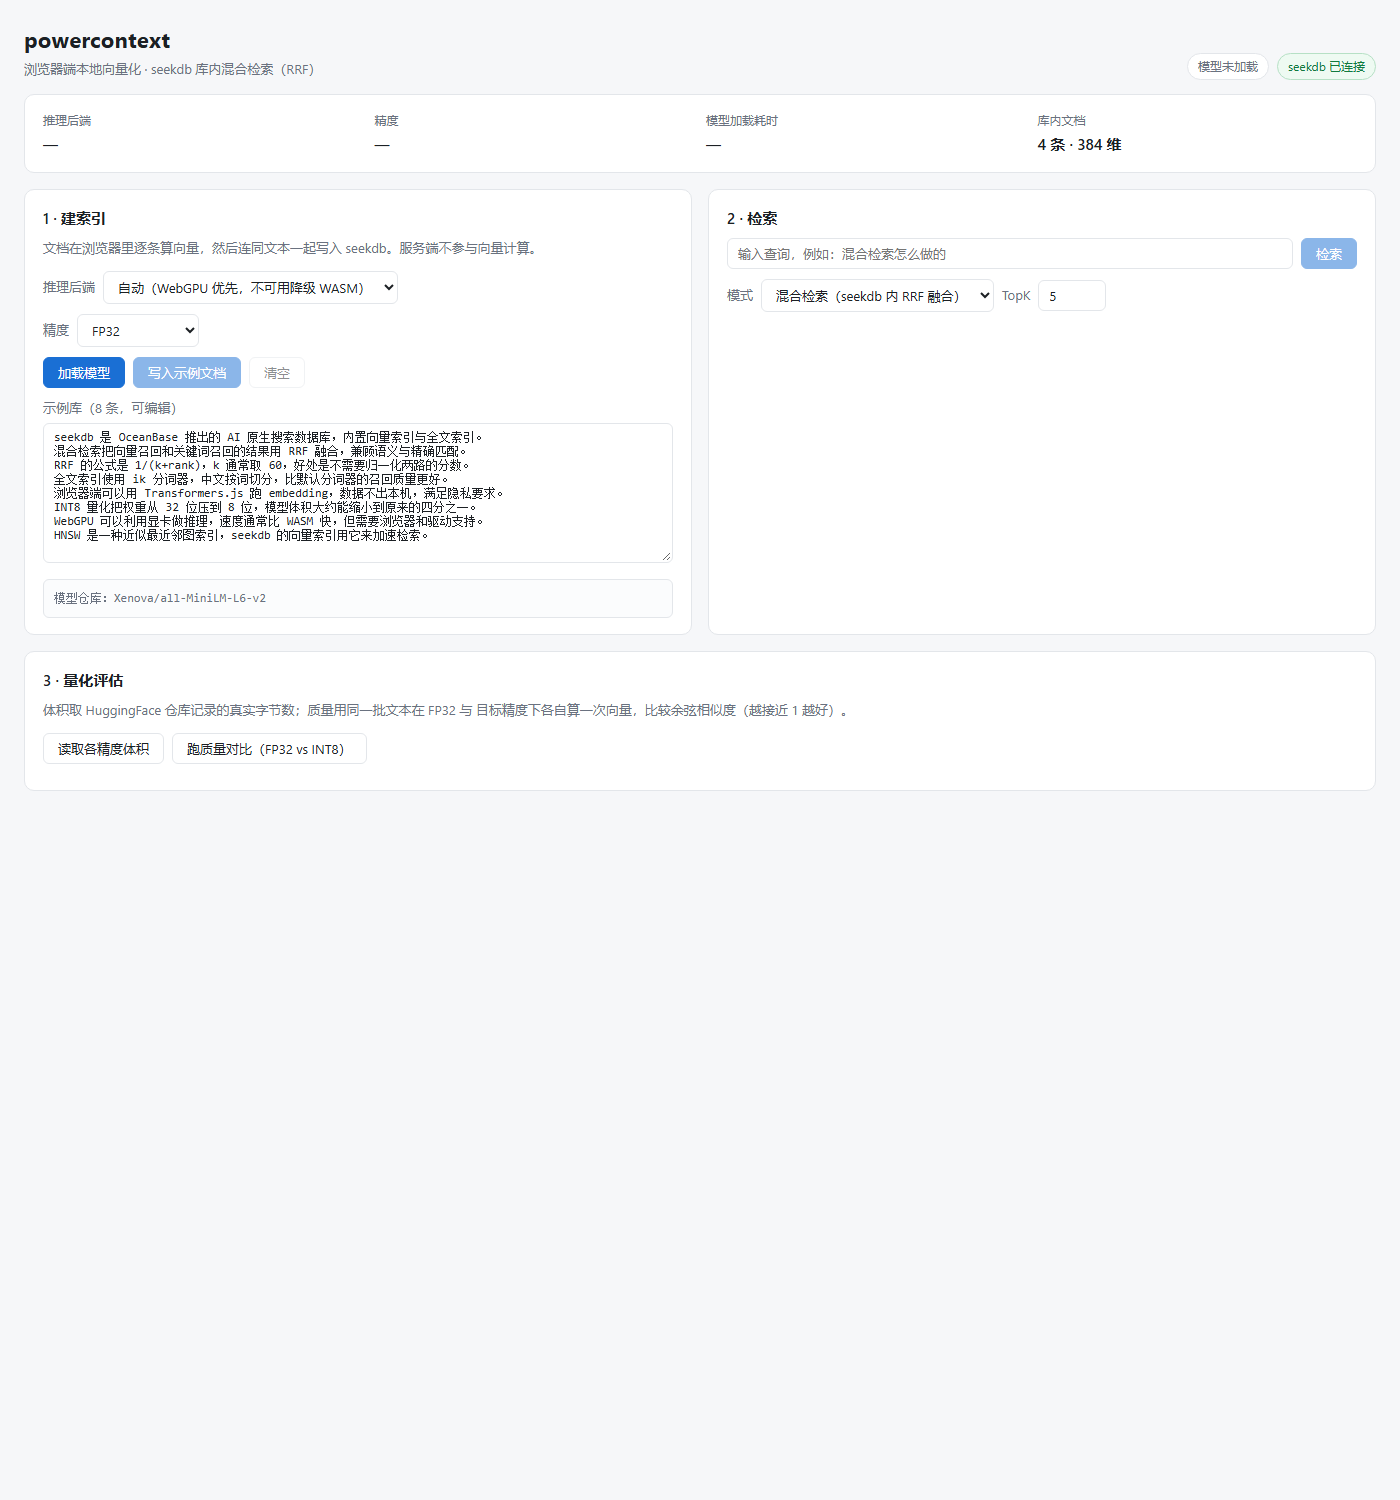
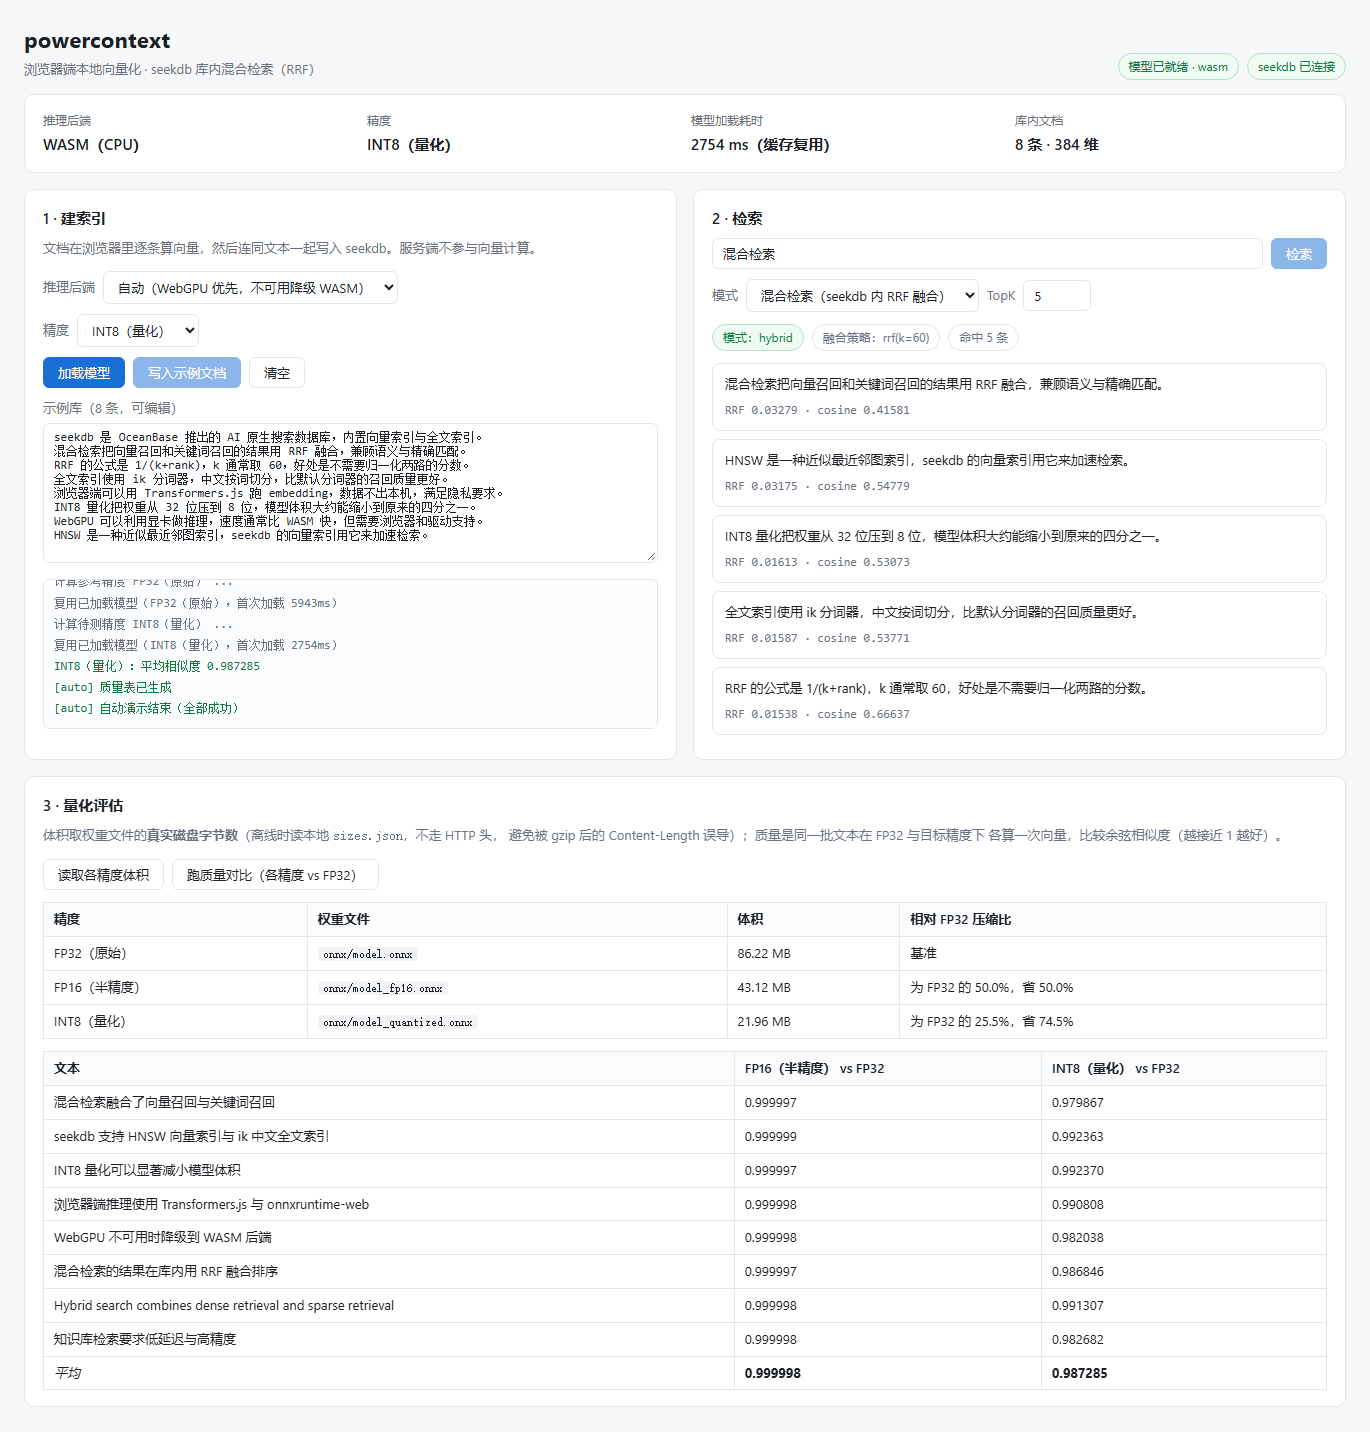
fix(stepfun): 建索引改为按内容哈希幂等写入，消除重复文档
截图复现出一个真问题：示例只有 8 条，库内却是 28 条，检索结果里同一条内容
出现三次。根因是 id 用 `doc-${Date.now()}-${i}` 生成——每点一次"建索引"
就换来一批全新 id，同一段文字被重复插入；"索引"这个动作本该是覆盖语义。

- web/src/ids.js：id 由内容 SHA-256 派生（非安全上下文回落 FNV-1a）
- server：INSERT ... ON DUPLICATE KEY UPDATE，并按 id 是否已存在
  如实区分"新增/覆盖"，接口返回 {inserted, updated}
- 自检新增断言：同一批 id 再写一次必须 inserted=0、总数不变（12 passed）
- 界面 / 日志如实显示"新增 0 条，覆盖 8 条"

顺带修两处展示问题：
- 命中缓存时把加载耗时记成 0 ms，页面看着像没加载成功；改为沿用首次
  加载耗时并标注"（缓存复用）"
- 第 3 区说明文案仍写"体积取 HuggingFace 仓库记录"，实际已改为读本地
  sizes.json，文案同步（这也是上一轮截图与代码不一致的地方）

截图更新为最终状态：8 条 · 384 维、5 条不重复结果、量化两表带实测数字。

diff --git a/stepfun/web/src/main.js b/stepfun/web/src/main.js
@@ -18,6 +18,7 @@ import {
   compareQuality,
 } from "./embed.js";
 import * as api from "./api.js";
+import { contentIds } from "./ids.js";
 
 const $ = (id) => document.getElementById(id);
 
@@ -55,7 +56,9 @@ function updateRuntime() {
   $("rt-dtype").textContent = session.loaded
     ? (session.dtypeLabel ?? session.dtype)
     : "—";
-  $("rt-load").textContent = session.loaded ? `${session.loadMs} ms` : "—";
+  $("rt-load").textContent = session.loaded
+    ? `${session.loadMs} ms${session.reused ? "（缓存复用）" : ""}`
+    : "—";
 
   const warn = $("rt-warn");
   if (session.degraded && session.degradedReason) {
@@ -134,15 +137,20 @@ $("btn-index").addEventListener("click", async () => {
     const ms = Math.round(performance.now() - t0);
     log(`向量化完成，${ms}ms（平均每条约 ${Math.round(ms / docs.length)}ms）`);
 
+    const ids = await contentIds(docs);
     const items = docs.map((content, i) => ({
-      id: `doc-${Date.now()}-${i}`,
+      id: ids[i],
       content,
       embedding: vecs[i],
       meta: { idx: i },
     }));
 
     const r = await api.ingest(items);
-    log(`已写入 seekdb：${r.inserted} 条`, "ok");
+    log(
+      `已写入 seekdb：新增 ${r.inserted} 条` +
+        (r.updated ? `，覆盖 ${r.updated} 条（内容相同，未产生重复）` : ""),
+      "ok"
+    );
     await refreshCount();
   } catch (e) {
     log(`写入失败：${e.message}`, "err");
@@ -405,14 +413,19 @@ async function runAutoSteps() {
     const t0 = performance.now();
     const vecs = await embed(docs);
     log(`[auto] 向量化 ${docs.length} 条，${Math.round(performance.now() - t0)}ms，维度=${vecs[0].length}`);
+    const ids = await contentIds(docs);
     const items = docs.map((content, i) => ({
-      id: `doc-${Date.now()}-${i}`,
+      id: ids[i],
       content,
       embedding: vecs[i],
       meta: { idx: i },
     }));
     const r = await api.ingest(items);
-    log(`[auto] 写入 seekdb ${r.inserted} 条`, "ok");
+    log(
+      `[auto] 写入 seekdb：新增 ${r.inserted} 条` +
+        (r.updated ? `，覆盖 ${r.updated} 条` : ""),
+      "ok"
+    );
     await refreshCount();
   } catch (e) {
     log(`[auto] 建索引失败：${e.message}`, "err");

diff --git a/stepfun/web/src/ids.js b/stepfun/web/src/ids.js
@@ -1,0 +1,38 @@
+/**
+ * ids.js —— 由文本内容派生稳定的文档 id
+ *
+ * 为什么不能用 `doc-${Date.now()}-${i}`：
+ * 每点一次"建索引"都会生成一批全新 id，同一条文本就在库里堆出多份，
+ * 检索结果里会出现三条一模一样的记录（实测踩过：8 条示例涨到 28 条）。
+ * 用内容哈希后，id 与内容一一对应，重复建索引等价于"覆盖更新"，
+ * 这也才符合"索引"这个动作应有的语义。
+ */
+
+/** @param {string} text @returns {Promise<string>} */
+export async function contentId(text) {
+  const data = new TextEncoder().encode(text.trim());
+
+  // crypto.subtle 只在安全上下文可用（https 或 localhost，本项目都满足）
+  if (globalThis.crypto?.subtle) {
+    const buf = await crypto.subtle.digest("SHA-256", data);
+    const hex = [...new Uint8Array(buf)]
+      .slice(0, 16)
+      .map((b) => b.toString(16).padStart(2, "0"))
+      .join("");
+    return `doc-${hex}`;
+  }
+
+  // 后备：FNV-1a。仅在非安全上下文出现（例如用局域网 IP 打开页面）时才会走到，
+  // 冲突概率高于 SHA-256，但足以保证同一次演示内不重复。
+  let h = 0x811c9dc5;
+  for (const b of data) {
+    h ^= b;
+    h = Math.imul(h, 0x01000193) >>> 0;
+  }
+  return `doc-${h.toString(16).padStart(8, "0")}`;
+}
+
+/** 批量版本，保持与输入同序 */
+export function contentIds(texts) {
+  return Promise.all(texts.map(contentId));
+}

diff --git a/stepfun/web/src/embed.js b/stepfun/web/src/embed.js
@@ -130,8 +130,11 @@ export async function loadModel(dtypeKey = "fp32", devicePref = "auto", onProgre
 
   const key = `${device}:${dtypeKey}`;
   if (cache.has(key)) {
-    session = { ...cache.get(key), loaded: true, loadMs: 0, degraded, degradedReason: reason };
-    onProgress("复用已加载模型");
+    // 命中缓存时保留该精度首次加载的耗时，而不是记 0 ——
+    // 页面上写"0 ms"会让人以为没加载成功。reused 交给 UI 标注"（缓存复用）"。
+    const hit = cache.get(key);
+    session = { ...hit, loaded: true, degraded, degradedReason: reason, reused: true };
+    onProgress(`复用已加载模型（${spec.label}，首次加载 ${hit.loadMs}ms）`);
     return session;
   }
 

diff --git a/stepfun/web/index.html b/stepfun/web/index.html
@@ -102,8 +102,9 @@
     <section class="panel">
       <h2>3 · 量化评估</h2>
       <p class="hint">
-        体积取 HuggingFace 仓库记录的真实字节数；质量用同一批文本在 FP32 与
-        目标精度下各自算一次向量，比较余弦相似度（越接近 1 越好）。
+        体积取权重文件的<b>真实磁盘字节数</b>（离线时读本地 <code>sizes.json</code>，不走 HTTP 头，
+        避免被 gzip 后的 Content-Length 误导）；质量是同一批文本在 FP32 与目标精度下
+        各算一次向量，比较余弦相似度（越接近 1 越好）。
       </p>
       <div class="row">
         <button id="btn-size">读取各精度体积</button>

diff --git a/stepfun/docs/TECHNICAL.md b/stepfun/docs/TECHNICAL.md
@@ -159,10 +159,10 @@ ORDER BY fused.rrf DESC LIMIT ?
 
 | 项 | 命令 | 结果 |
 |---|---|---|
-| db 层自检 | `cd server && npm run smoke` | 11 passed / 0 failed（DIM=8 与 384 双跑通过） |
+| db 层自检 | `cd server && npm run smoke` | 12 passed / 0 failed（DIM=8 与 384 双跑通过） |
 | HTTP 链路 | `node tools/http-check.mjs` | 10 passed / 0 failed |
-| 前端构建 | `cd web && npm run build` | 通过，主包 566.60 kB（gzip 168.83 kB） |
-| 页面连通 | CDP 抓 DOM | `seekdb 已连接`、示例 8 条、库内 `N 条 · 384 维` |
+| 前端构建 | `cd web && npm run build` | 通过，主包 569.09 kB（gzip 168.67 kB） |
+| 页面连通 | CDP 抓 DOM | `seekdb 已连接`、示例 8 条、库内 `8 条 · 384 维`（重复运行仍是 8 条） |
 | 降级标注 | CDP 抓 DOM | 「WebGPU 存在但拿不到 adapter…已降级到 WASM」 |
 | 全链路自动跑 | `node tools/cdp-run.mjs <url>` | 加载模型 → 写入 → 检索 → 出量化两张表，无报错 |
 | 量化体积/质量 | 同上 + `tools/verify-onnx-dtypes.py` | 见 §4.1 / §4.2，两套运行时互相印证 |
@@ -190,6 +190,7 @@ ORDER BY fused.rrf DESC LIMIT ?
 | ORT 的 wasm 默认从 jsdelivr CDN 拉，离线永远加载不出来 | `tools/sync-ort-wasm.mjs` 同步到本地并设 `wasmPaths`；且**全量**同步（曾漏 asyncify 变体，Edge 156 直接报取不到模块） |
 | 静态服务器开 gzip 使 `Content-Length` 给出压缩后大小 | 构建前 stat 磁盘生成 `sizes.json`，页面优先读它（§4.1） |
 | 用 `--virtual-time-budget` 做无头验证会得到假失败 | 它快进 `setTimeout`，页面超时提示被瞬间触发；改为 CDP 轮询 `window.__AUTO_STATE__` |
+| 文档 id 用 `Date.now()` 派生，重复建索引把同一段文字堆成多份 | 实测 8 条示例点两次就变 28 条，检索结果里出现三条完全相同的记录。改为按内容 SHA-256 派生 id（`web/src/ids.js`），服务端 `INSERT ... ON DUPLICATE KEY UPDATE` 覆盖写入，自检有断言守着 |
 
 ## 7. 权重获取与离线复现
 

diff --git a/stepfun/README.md b/stepfun/README.md
@@ -57,10 +57,10 @@ node tools/http-check.mjs         # 打完整 HTTP 链路（需先 npm start）
 
 | 验证 | 结果 |
 |---|---|
-| 服务端自检 `npm run smoke` | **11 passed / 0 failed**（DIM=8 与 DIM=384 各跑一遍均通过） |
+| 服务端自检 `npm run smoke` | **12 passed / 0 failed**（DIM=8 与 DIM=384 各跑一遍均通过） |
 | HTTP 链路 `http-check.mjs` | **10 passed / 0 failed** |
-| 前端生产构建 `npm run build` | 通过，主包 `566.60 kB`（gzip 168.83 kB） |
-| 页面渲染与服务连接 | CDP 抓 DOM 确认：`seekdb 已连接` / 示例 8 条 / `384 维` |
+| 前端生产构建 `npm run build` | 通过，主包 `569.09 kB`（gzip 168.67 kB） |
+| 页面渲染与服务连接 | CDP 抓 DOM 确认：`seekdb 已连接` / 示例 8 条 / 库内 `8 条 · 384 维`（重复运行仍是 8 条） |
 | 全链路自动跑通 | `node tools/cdp-run.mjs <url>` → 加载模型 → 写库 → 检索 → 出量化表，无报错 |
 | 量化数据交叉验证 | `python tools/verify-onnx-dtypes.py` 与浏览器侧同量级 |
 
@@ -159,6 +159,11 @@ stepfun/
 - **npm 的 optional dependencies bug**：Windows 上可能漏装平台原生包
   （`@rollup/rollup-win32-x64-msvc`、`@esbuild/win32-x64`）。
   报错里会提示；本项目用显式安装版本号的方式补上。
+- **重复建索引会堆出重复文档**：早期 id 用 `doc-${Date.now()}-${i}` 生成，
+  同一批示例点两次"建索引"就从 8 条变 28 条，检索结果里出现三条一模一样的记录。
+  现在 id 由内容 SHA-256 派生（`web/src/ids.js`），服务端用
+  `INSERT ... ON DUPLICATE KEY UPDATE`，重复建索引只会覆盖，
+  界面会如实显示"新增 0 条，覆盖 8 条"。
 
 ## 已知限制
 
